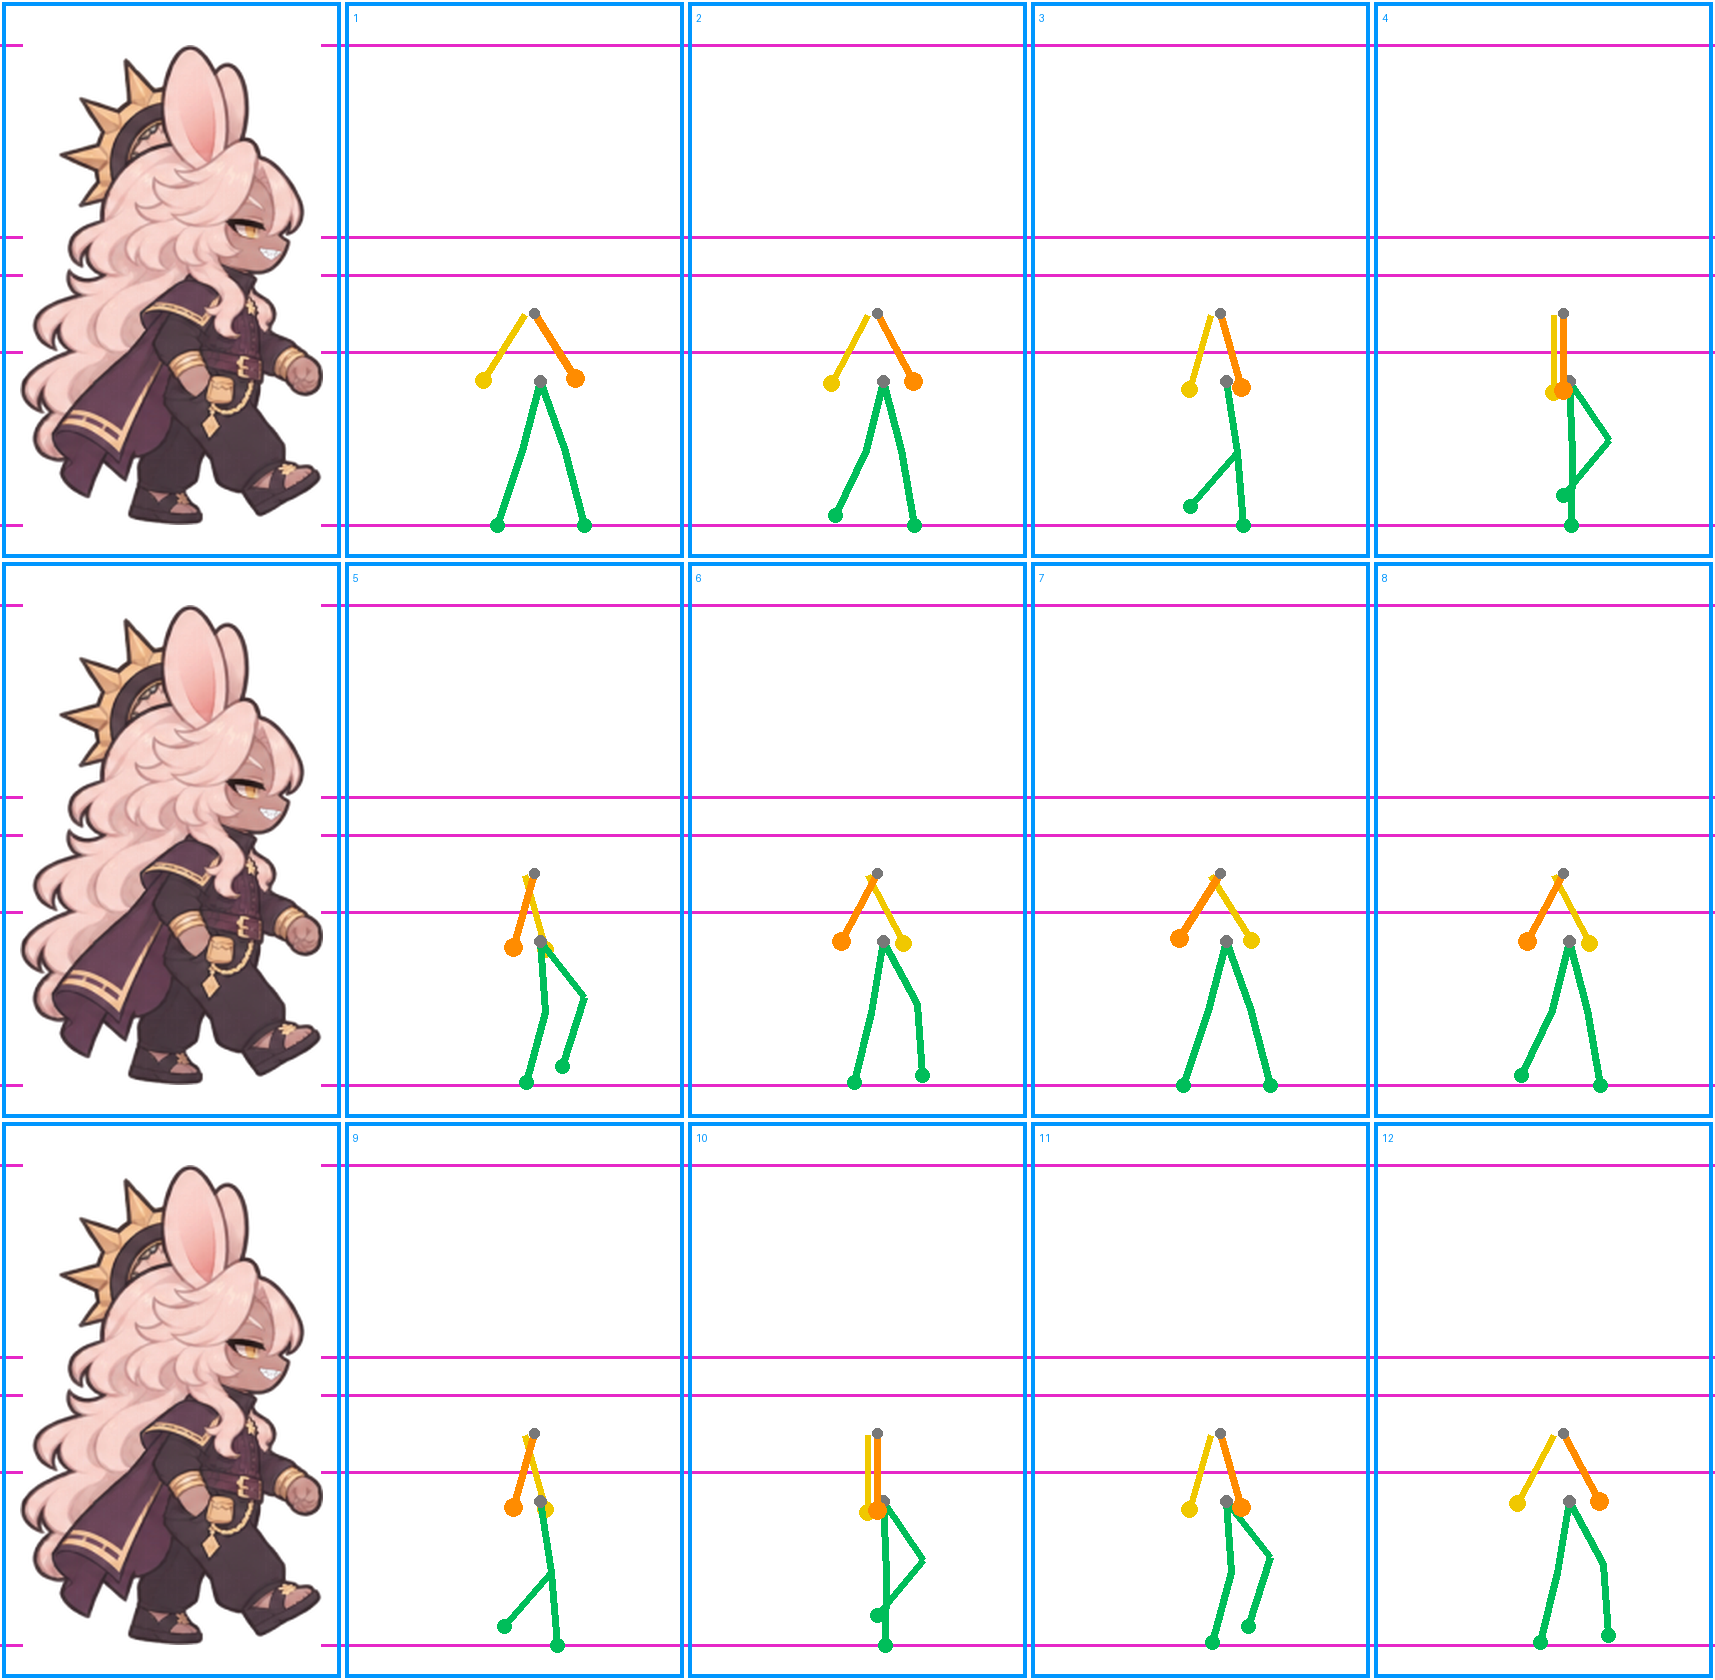
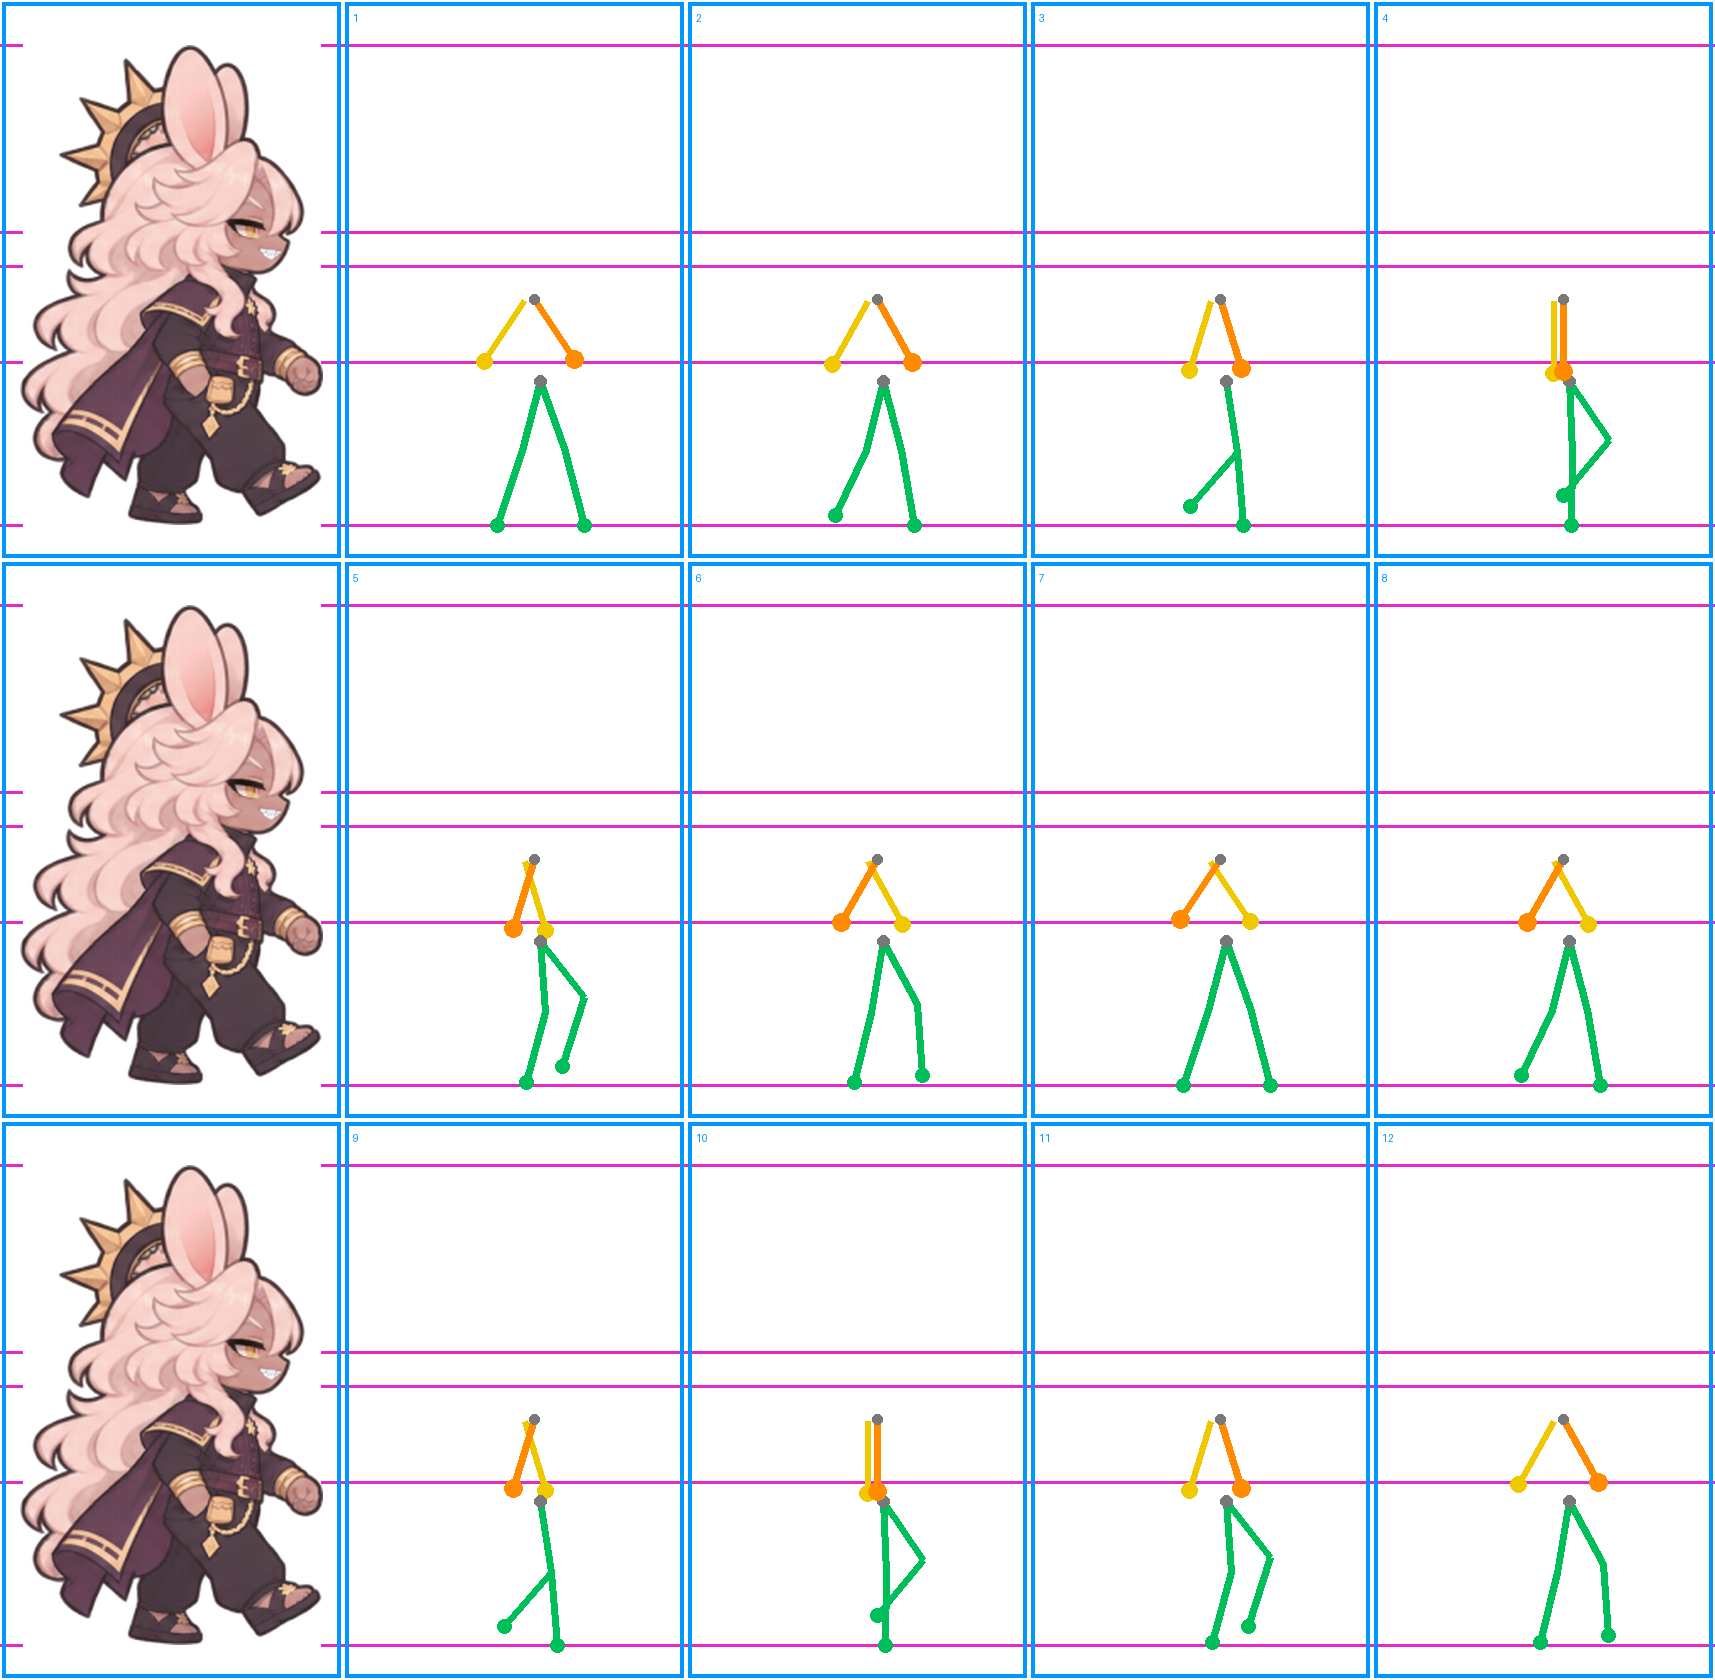
docs: 걷기 가이드 높이 값 바로잡음, 아리아 v8(팔 강조) 가이드·요청문
Claude-Session: https://claude.ai/code/session_012DFmYRntmyYRtXq4JsKkmi

diff --git a/docs/characters/걷기_v7_GPT복사용.md b/docs/characters/걷기_v7_GPT복사용.md
@@ -144,3 +144,32 @@
 - 옷: 크림색 반팔 티셔츠(가슴에 작은 주황 꽃), 연두색 무릎길이 플레어 스커트, 갈색 작은 크로스백, 흰 스니커즈 — 모든 칸에서 똑같이
 - 투명 배경
 ```
+
+## 아리아 v8 — 팔 강조 다시 그리기 (사용자 11-26 '발이 치마 안에 있어 잘 안 보이니 팔이 앞뒤로 자연스러우면 걷는 것처럼 보일 것')
+
+첨부 ① `아리아/SD/가이드_걷기_v8.png` ② `아리아/SD/아리아_걷기_v7.png`(앞 결과 — 옷·그림체 참고) → 저장 `아리아/SD/아리아_걷기_v8.png` — **새 대화**
+
+```
+첫 번째 첨부는 아리아의 걷기 가이드야(세 줄, 줄마다 맨 왼쪽 칸이 기준 아리아, 나머지 4칸이 빈 칸이고 칸 왼쪽 위에 1~12 번호). 두 번째 첨부는 앞서 그린 걷기 그림(옷·그림체 참고용 — 팔 모양은 따라 하지 마).
+빈 칸 12개(1~12번)에 오른쪽을 향해 걷는 아리아를 그려줘. 12번 다음에 다시 1번으로 이어지며 계속 걷는 반복 그림이야.
+
+[팔 — 가장 중요, 이번 그림의 목적]
+- 아리아는 긴 치마라 발이 잘 안 보여서, 걷는 느낌은 팔이 만들어. 팔이 앞뒤로 크고 자연스럽게 흔들리는 게 가장 중요해
+- 칸마다 팔이 두 개 있어: 주황 선 = 보는 쪽 팔, 노랑 선 = 먼 쪽 팔. 회색 점 = 어깨, 동그라미 = 손 위치. 팔을 선 위에 정확히 겹쳐 그려줘
+- 보는 쪽 팔(주황)은 주황 리본·머리카락보다 앞에 그려서 소매와 손이 다 보이게(가리지 마)
+- 먼 쪽 팔(노랑)도 모든 칸에 그려줘 — 몸 뒤쪽이라 일부가 가려져도 소매 끝과 손은 보이게
+- 두 팔은 늘 반대 방향: 1번에서 보는 쪽 팔이 가장 앞, 7번에서 가장 뒤, 그 사이는 조금씩 이동해서 12번 다음 1번으로 부드럽게
+- 소매는 팔 움직임에 따라 자연스럽게 흔들리게
+
+[몸·치마·다리]
+- 치마 밑단은 다리 움직임에 맞춰 살짝 앞뒤로 흔들리게(모든 칸 같은 모양으로 굳어 있지 않게)
+- 4·10번(다리가 모이는 칸)에서 몸 전체가 아주 살짝 위로
+- 초록 선 두 개가 두 다리 자세야 — 치마 아래로 보이는 부츠가 초록 선 끝(동그라미) 위치에 오게. 두 다리는 같은 색·같은 명암
+
+[가이드 사용법 — 크기]
+- 첫 번째 첨부를 바탕 그대로 써서 빈 칸에 그려줘. 맨 왼쪽 칸 아리아가 기준(크기·비율·얼굴·옷·색 모두 같게)
+- 분홍 가로선 5개는 위에서부터 머리 끝 / 눈 / 턱 / 치마 끝 / 바닥 — 머리·눈·턱이 기준과 같은 선에, 바닥에 닿은 부츠는 맨 아래 선에
+- 머리카락은 걸음에 맞춰 살짝만 흔들리게(칸마다 머리 크기·모양이 크게 달라지지 않게)
+- 결과는 가이드와 같은 크기·같은 칸 배치로. 기준 그림·선·파란 칸 테두리·번호는 남아 있어도 괜찮아(나중에 지움)
+- 얼굴·표정·머리 모양·옷(크림색 긴소매 원피스와 연두 잎 자수 밑단, 연두 짧은 케이프와 주황 매듭, 갈색 가죽 약초 주머니, 갈색 앵클부츠, 주황 리본, 흰 꽃 핀)·색감·선 굵기는 기준과 같게, 투명 배경
+```

diff --git a/docs/characters/걷기_다시그리기.md b/docs/characters/걷기_다시그리기.md
@@ -125,3 +125,7 @@
 - (확인) 머리 위치 흔들림은 아님 — 칸마다 머리 x ±1px, 앱 프레임도 머리 기준 ±2px.
 - 바로 해 볼 수 있는 것: **코드로 위아래 흔들림**(다리 모일 때 위로, 벌릴 때 아래로 최대 5px — 앱 `anchors.json` 프레임별 dy로 가능, 다시 그릴 필요 없음). GIF `아리아/아리아_걷기_v7_흔들림_제자리.gif`(지금 앱 / 10장 / 10장+흔들림).
 - 그래도 어색하면 다시 그리기: 치마 밑단이 다리 따라 앞뒤로 흔들리게, 보는 쪽 팔(소매)이 리본 앞으로 확실히 보이며 흔들리게, 지나가는 장에서 몸 살짝 위로.
+
+### 가이드 높이 값 바로잡음 (기획 11-26)
+- 처음 만든 네 캐릭터 가이드의 눈·턱·어깨 높이를 눈대중으로 잡아 어깨가 실제보다 낮았음(특히 아리아 38% → 실제 47%) → 캐릭터 옆모습에 5% 눈금을 그어 다시 잼: 아리아 눈 62·턱 52·어깨 47·치마 끝 12·팔 20% / 다래 61·54·46·20·16% / 레나 62·55·47·18·15% / Starline 61·54·47·벨트 34·15%(엉덩이 25~30%). 다래·레나·Starline `가이드_걷기_v7.png` 다시 만듦(아직 생성 전이라 영향 없음).
+- **아리아 v8**(사용자 11-26 '발이 치마 안이라 안 보임 — 팔이 앞뒤로 자연스러우면 걷는 것처럼 보일 것, 가이드 추가해서 새로'): `아리아/SD/가이드_걷기_v8.png` — 팔 길이 20%, 흔들림 ±40°(다른 캐릭터 ±34°)로 크게. 요청문 `걷기_v7_GPT복사용.md` '아리아 v8'.
